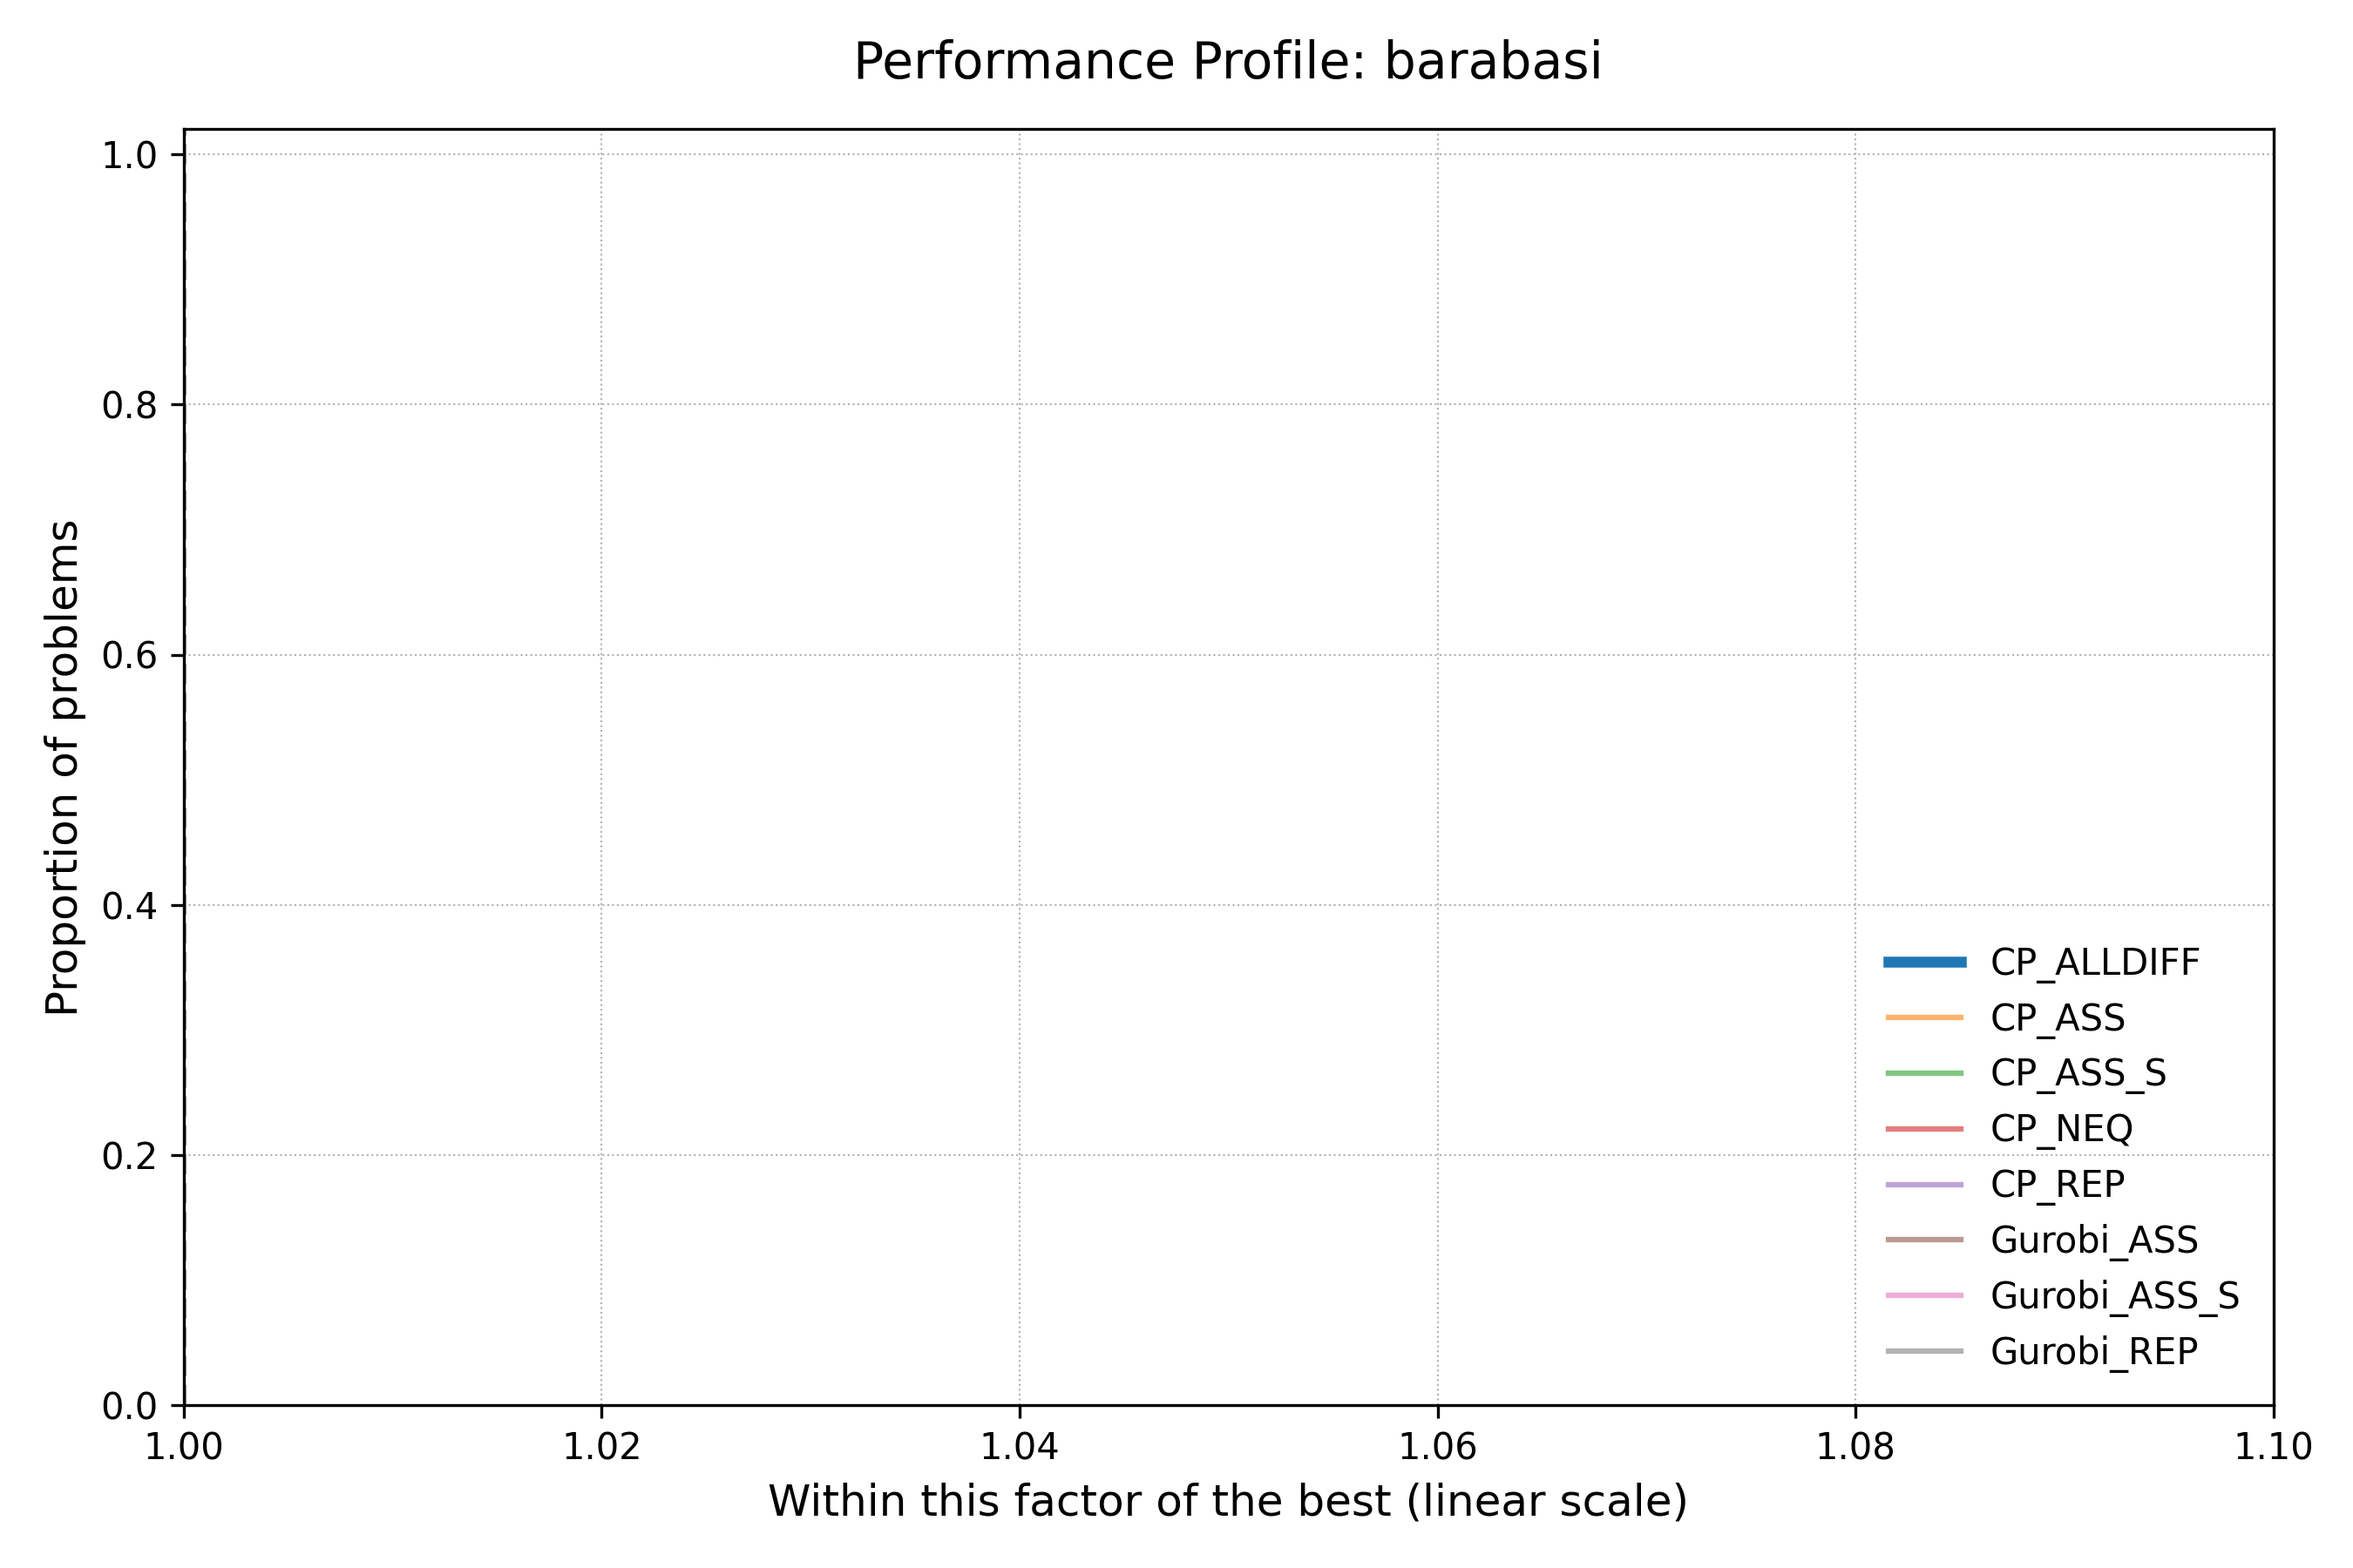
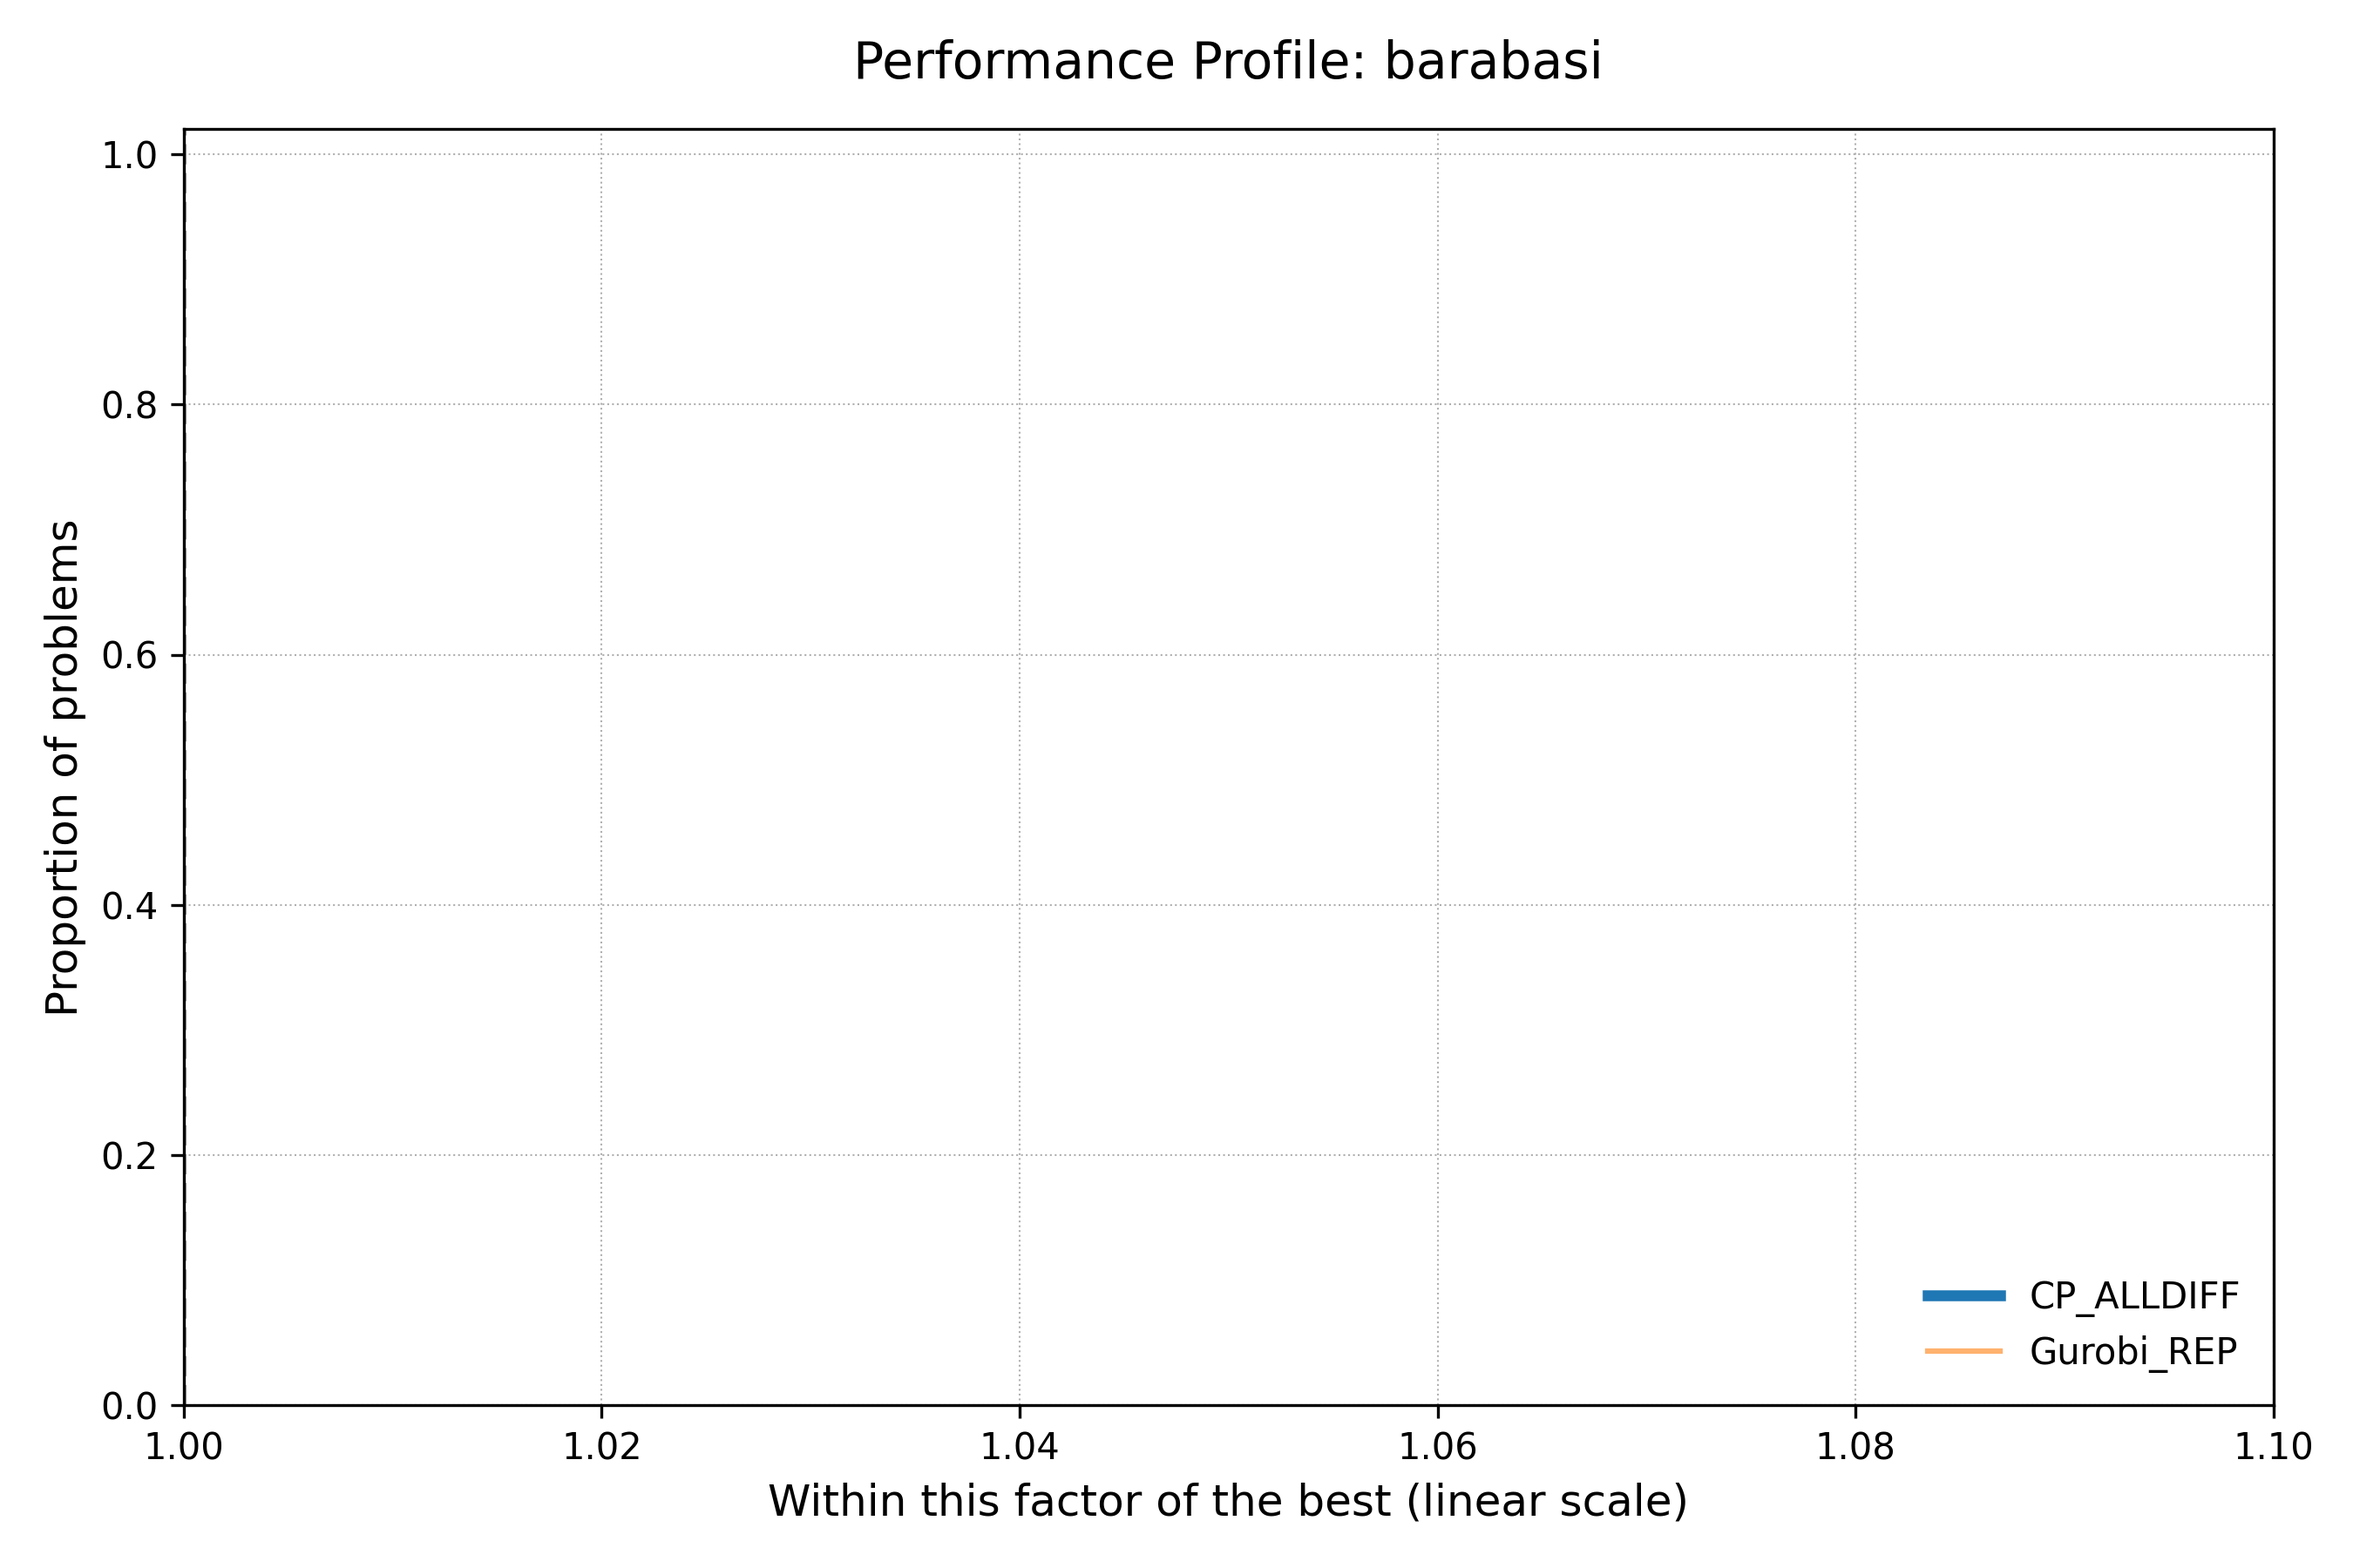
fix benchmarking

Changed region(s): [[0.8089, 0.5911, 0.9644, 0.8711]]

diff --git a/sheets/05_graph_coloring/instances/instances.py b/sheets/05_graph_coloring/instances/instances.py
@@ -26,10 +26,10 @@ class Instances:
 
         # erdos_renyi_graphs (random)
         # erdos_renyi_graph(number of nodes, probability that an edge between two nodes exist, seed that garantee same graph for same input)
-        #instances.append(("erdos30-0.1-42", nx.erdos_renyi_graph(30, 0.1, seed = 42)))
-        #instances.append(("erdos30-0.3-42", nx.erdos_renyi_graph(30, 0.3, seed = 42)))
-        #instances.append(("erdos30-0.5-42", nx.erdos_renyi_graph(30, 0.5, seed = 42)))
-        #instances.append(("erdos30-0.7-42", nx.erdos_renyi_graph(30, 0.7, seed = 42)))
+        instances.append(("erdos30-0.1-42", nx.erdos_renyi_graph(30, 0.1, seed = 42)))
+        instances.append(("erdos30-0.3-42", nx.erdos_renyi_graph(30, 0.3, seed = 42)))
+        instances.append(("erdos30-0.5-42", nx.erdos_renyi_graph(30, 0.5, seed = 42)))
+        instances.append(("erdos30-0.7-42", nx.erdos_renyi_graph(30, 0.7, seed = 42)))
         #instances.append(("erdos30-0.5-13", nx.erdos_renyi_graph(30, 0.5, seed = 13)))
         #instances.append(("erdos30-0.5-33", nx.erdos_renyi_graph(30, 0.5, seed = 33)))
         #instances.append(("erdos30-2-1", nx.erdos_renyi_graph(30, 1, seed = 1)))
@@ -40,10 +40,10 @@ class Instances:
         # barabasi_albert_graph (random) --> sequentielly adding of nodes with degree m
         # barabasi_alber_graph(number of nodes, edges added per new node, seed)
         # --> nodes with high degree --> DSATUR much better
-        #instances.append(("barabasi50-2-42", nx.barabasi_albert_graph(50, 2, seed = 42)))
-        #instances.append(("barabasi50-3-42", nx.barabasi_albert_graph(50, 3, seed = 42)))
-        #instances.append(("barabasi50-4-42", nx.barabasi_albert_graph(50, 4, seed = 42)))
-        #instances.append(("barabasi50-10-42", nx.barabasi_albert_graph(50, 10, seed = 42)))
+        instances.append(("barabasi50-2-42", nx.barabasi_albert_graph(50, 2, seed = 42)))
+        instances.append(("barabasi50-3-42", nx.barabasi_albert_graph(50, 3, seed = 42)))
+        instances.append(("barabasi50-4-42", nx.barabasi_albert_graph(50, 4, seed = 42)))
+        instances.append(("barabasi50-10-42", nx.barabasi_albert_graph(50, 10, seed = 42)))
         #instances.append(("barabasi100-10-13", nx.barabasi_albert_graph(100, 10, seed = 13)))
         #instances.append(("barabasi100-10-20", nx.barabasi_albert_graph(100, 10, seed = 20)))
         #instances.append(("barabasi100-10-42", nx.barabasi_albert_graph(100, 10, seed = 42)))
@@ -52,10 +52,10 @@ class Instances:
         #instances.append(("barabasi150-33-66", nx.barabasi_albert_graph(150, 33, seed = 66)))
 
         # kneser graph (classic, n > k > 0) --> highly symmetric, challenging for greedy
-        #instances.append(("petersenGraph", nx.kneser_graph(5, 2)))
-        #instances.append(("kneser9-4", nx.kneser_graph(9, 4)))
-        #instances.append(("kneser10-3", nx.kneser_graph(10, 3)))
-        #instances.append(("kneser10-5", nx.kneser_graph(10, 5)))
+        instances.append(("petersenGraph", nx.kneser_graph(5, 2)))
+        instances.append(("kneser9-4", nx.kneser_graph(9, 4)))
+        instances.append(("kneser10-3", nx.kneser_graph(10, 3)))
+        instances.append(("kneser10-5", nx.kneser_graph(10, 5)))
         #instances.append(("kneser13-4", nx.kneser_graph(13, 4)))
         #instances.append(("kneser13-5", nx.kneser_graph(13, 5)))
         #instances.append(("kneser14-4", nx.kneser_graph(14, 4)))

diff --git a/sheets/05_graph_coloring/benchmarking_solvers.py b/sheets/05_graph_coloring/benchmarking_solvers.py
@@ -24,14 +24,14 @@ class Benchmarking_Solvers:
     all_instances = list(Instances.generate_test_instances())
 
     solvers = {
-        "Gurobi_ASS": lambda G, ub: GurobiASS.solve_coloring_ASS_gurobi(G, ub, 60),
-        "Gurobi_ASS_S": lambda G, ub: GurobiASS_S.solve_coloring_ASS_S_gurobi(G, ub, 60),
+        #"Gurobi_ASS": lambda G, ub: GurobiASS.solve_coloring_ASS_gurobi(G, ub, 60),
+        #"Gurobi_ASS_S": lambda G, ub: GurobiASS_S.solve_coloring_ASS_S_gurobi(G, ub, 60),
         "Gurobi_REP": lambda G, ub: GurobiREP.solve_coloring_REP_gurobi(G, ub, 60),
 
-        "CP_ASS": lambda G, ub: CP_SAT_ASS.solve_coloring_ASS_CP_SAT(G, ub, 60),
-        "CP_ASS_S": lambda G, ub: CP_SAT_ASS_S.solve_coloring_ASS_S_CP_SAT(G, ub, 60),
-        "CP_REP": lambda G, ub: CP_SAT_REP.solve_coloring_REP_CP_SAT(G, ub, 60),
-        "CP_NEQ": lambda G, ub: CP_SAT_NOT_EQUAL.solve_coloring_not_equal_CP_SAT(G, ub, 60),
+        #"CP_ASS": lambda G, ub: CP_SAT_ASS.solve_coloring_ASS_CP_SAT(G, ub, 60),
+        #"CP_ASS_S": lambda G, ub: CP_SAT_ASS_S.solve_coloring_ASS_S_CP_SAT(G, ub, 60),
+        #"CP_REP": lambda G, ub: CP_SAT_REP.solve_coloring_REP_CP_SAT(G, ub, 60),
+        #"CP_NEQ": lambda G, ub: CP_SAT_NOT_EQUAL.solve_coloring_not_equal_CP_SAT(G, ub, 60),
         "CP_ALLDIFF": lambda G, ub: CP_SAT_ALL_DIFF.solve_coloring_all_diff_CP_SAT(G, ub, 60),
 
         #"SAT": lambda G, ub: SAT.solve_coloring_SAT(G, ub, 60),
